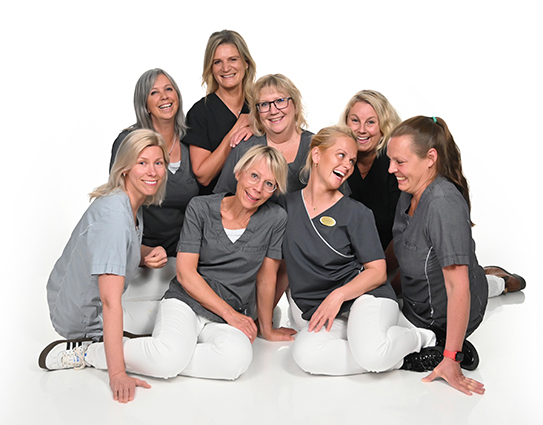
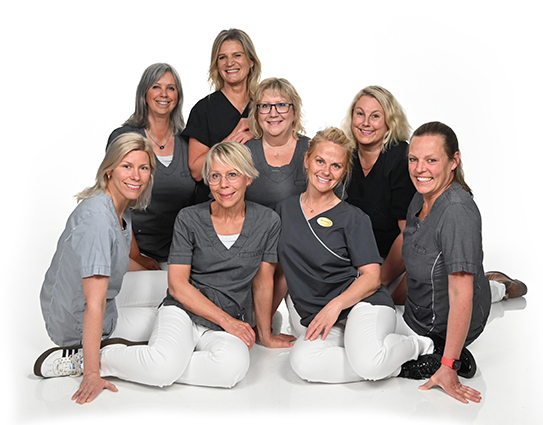
switch photo, removed opening hours, added summer info

Changed region(s): [[0.0589, 0.0612, 0.9724, 0.9482], [0.1473, 0.9788, 0.2357, 1.0]]

diff --git a/index.html b/index.html
@@ -49,8 +49,8 @@
 						<img class="img-fluid w-100 mb-4" src="img/personal.jpg" />
 						<div class="col-xl-10 container px-lg-5">
 							<div class="row">
-								<div class="col">Maria Paldanius, tandläkare</div>
-								<div class="col text-end">Christin Tedsjö, tandläkare</div>
+								<div class="col">Christin Tedsjö, tandläkare</div>
+								<div class="col text-end">Maria Paldanius, tandläkare</div>
 							</div>
 							<div class="row">
 								<div class="col">Lena Andersson, tandsköterska</div>
@@ -93,31 +93,17 @@
             <div class="p-4 m-4 bg-light border rounded">
                 <div class="row">
                     <div class="col-12 col-lg-6 px-2 mb-2 mb-lg-0">
+
                         <div class="pb-4">
-                            <h6 class="text-center">Öppettider</h6>
-                            <div class="container pb-2">
-                                <div class="row">
-                                    <div class="col">Måndag, Tisdag</div>
-                                    <div class="col">
-                                        07:00 - 18:00
-                                    </div>
-                                </div>
-                                <div class="row">
-                                    <div class="col">Onsdag</div>
-                                    <div class="col">
-                                        07:00 - 16:00
-                                    </div>
-                                </div>
-                                <div class="row">
-                                    <div class="col">Torsdag, Fredag</div>
-                                    <div class="col">
-                                        07:00 - 15:00
-                                    </div>
-                                </div>
+                            <div class="bg-warning border rounded p-2 w-75 m-auto text-center">
+                                <h6 class="text-center">Avvikande öppetider under sommaren</h6>
                             </div>
+                            <p>Under vecka 28 har vi telefontid Mån - Fre 08:00 - 12:00.</p>
+                            <p>Under vecka 29 samt 30 har vi semesterstängt.</p>
+                            <p>Under vecka 31 har vi mycket begränsningar att svara i telefonen så maila oss gärna på adressen under.</p>
                         </div>
 
-                        <!--<hr>-->
+                        <br>
 
                         <div class="pb-4">
                             <h6 class="text-center">Kontakta Oss</h6>
